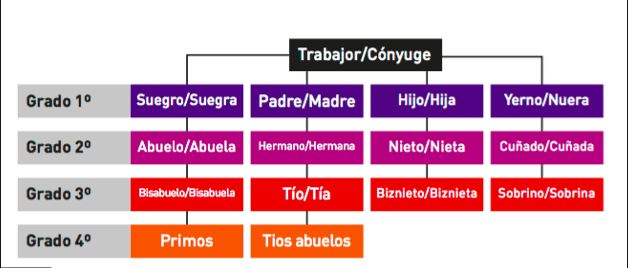
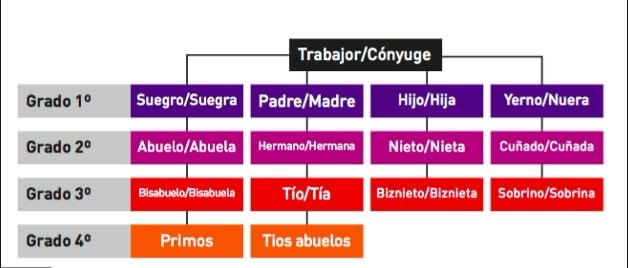
de vuelta

diff --git a/README.md b/README.md
@@ -15,4 +15,4 @@ Todo el material compatible (archivos HTML y PDF) se puede visualizar online a t
 
 ### Enlaces directos de ejemplo
 *   **Exámenes:** [Ir al test](https://alvarcamachom.github.io/CanalOpo/Material_Estudio/examenes_problemas/examenes.html)
-*   **Legislación:** [Ir al resumen]Pendiente
+*   **Legislación:** [Ir al resumen](https://alvarcamachom.github.io/CanalOpo/Material_Estudio/resumen_completo.pdf)
